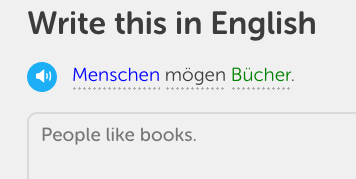
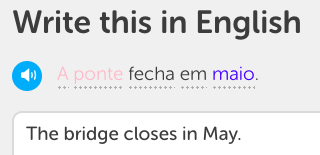
README update

diff --git a/language-specific.js b/language-specific.js
@@ -125,7 +125,8 @@
     "er" : "Masculine",
     "ihn" : "Masculine",
     "ihrer" : "Feminine",
-    "es" : "Neuter"
+    "es" : "Neuter",
+    "das" : "Neuter",
   };
 
   var dutchPronouns = {
@@ -227,6 +228,9 @@
           break;
         case "Dutch":
           myPronouns = dutchPronouns;
+          break;
+        case "Italian":
+          myPronouns = italianPronouns;
           break;
         default:
           myPronouns = null;

diff --git a/README.md b/README.md
@@ -1,20 +1,20 @@
 # gender-reveal
-Color-codes words in [Duolingo](http://www.duolingo.com/) by the grammatical gender shown in its hover-hint in target-to-source sentence challenges. 
+Color-codes words in [Duolingo](http://www.duolingo.com/) by grammatical gender in target-to-source sentence challenges. Source information comes from hover hints and certain languages' gendered pronouns.
 ![No hover hint necessary](gender_color_different.png)
 ![Info is taken from hover hint, though](gender_in_hint.png)
 
+# installation
+You will need to have installed [Greasemonkey](https://addons.mozilla.org/en-US/firefox/addon/greasemonkey/) on Firefox or [Tampermonkey](https://chrome.google.com/webstore/detail/tampermonkey/dhdgffkkebhmkfjojejmpbldmpobfkfo?hl=en) on Chrome. Then go to [the userscript](gender-reveal.user.js) and click on "raw".
+
+# color conventions
 Currently follows the convention:
 * "Blue" for "Masculine"
 * "Green" for "Neuter"
 * "Pink" for "Feminine"
-and should work for any languages who use a superset or subset of these.
 
-Features being added (practical help needed):
-* Detecting language (and when it switches) for gendered pronoun detection
-* Common color for common/neuter contrast (as in Dutch and Swedish)
-* Having some sort of non-log-dependent interface
+# pronouns
+Gendered pronouns, which do not have hints in Duolingo, are colored--*if the pronoun is unambiguous*--in French, Portuguese, Spanish, German and Dutch. This means that in German, only *er*, *ihn*, *ihrer*, and *es* are colored; while pronouns like *ihm* (could be masculine or neuter) or *der* (could be masculine*-nominativ* or feminine*-dativ*) are not. In the future, I hope to be able to analyze case to disambiguate those pronouns' gender. 
 
-Future features to add (conceptual help needed):
-* DB storage of word/gender association, for coloring multiple-choice.
-* Support for enclitics (Spanish *dáme**lo*** and all Romanian pronouns)  
-* Support for morphing (gender of German pronouns depending on number, case...)
+# future features planned 
+* color-code words on multiple choice exercises
+* color for common gender (as in Swedish) and Swahili noun classes?
